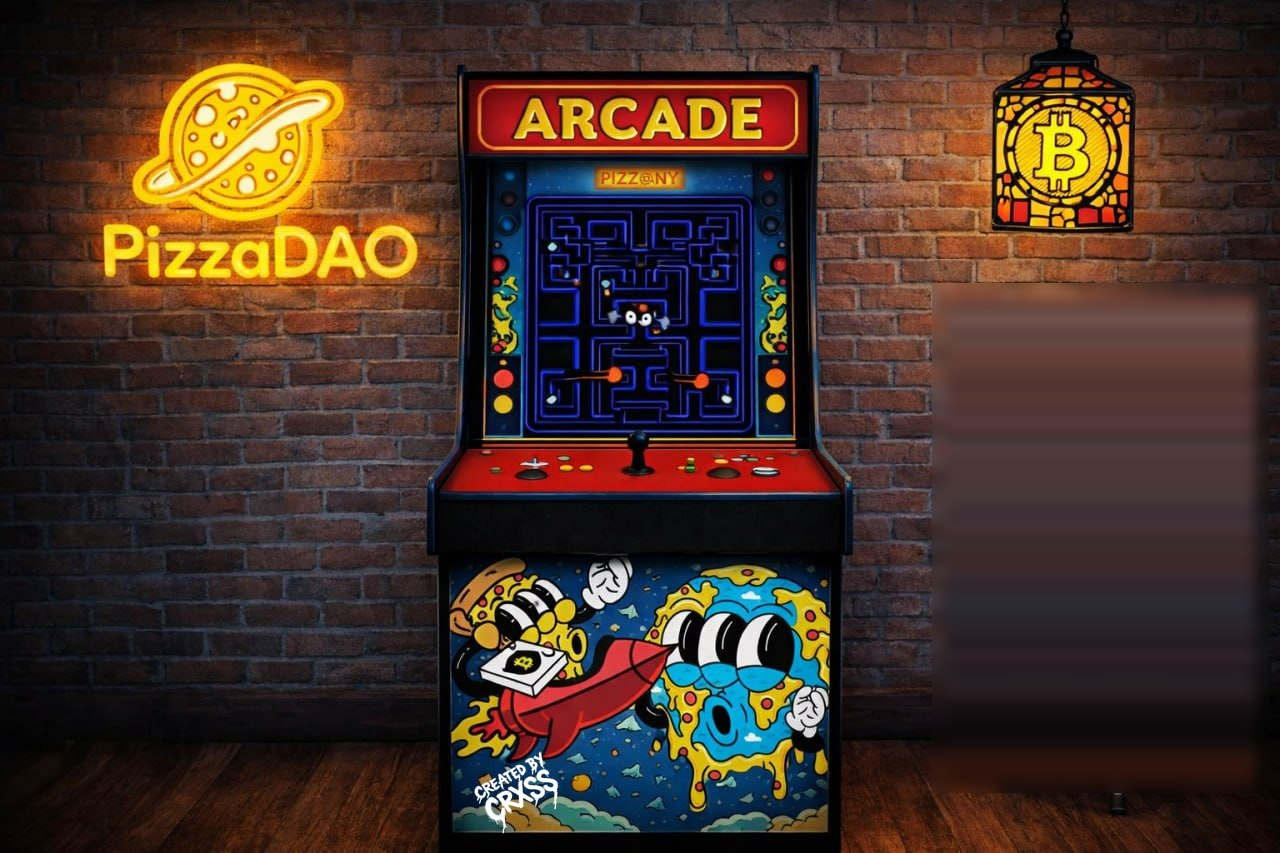
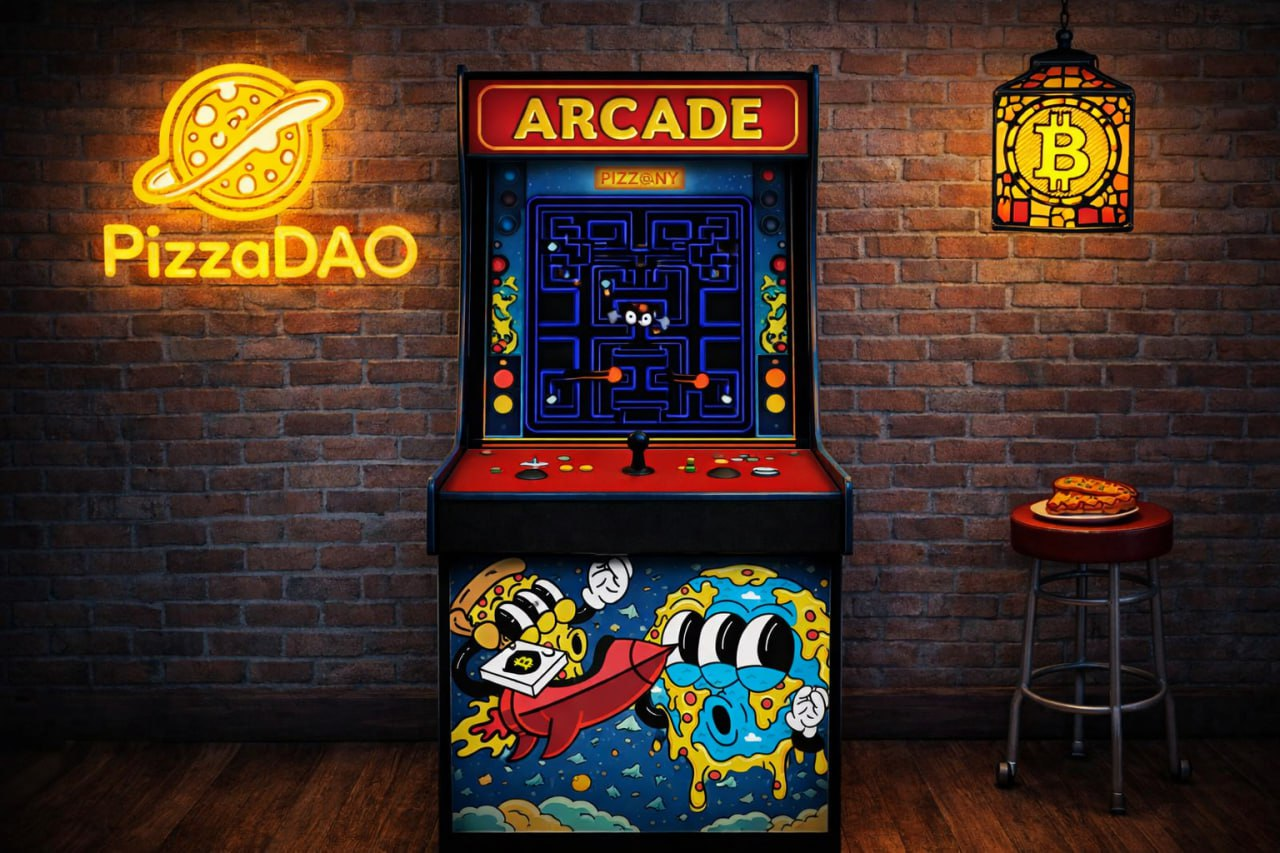
revert: use original background with stool, no pizza overlay, no CRXSS bake

diff --git a/app/pizzadao/arcade/page.tsx b/app/pizzadao/arcade/page.tsx
@@ -21,7 +21,6 @@ const L = {
   screen:   { left: 37.7667, top: 19.8999, width: 24.6333, height: 31.5969 },
   joystick: { left: 49.0,    top: 50.3967, width: 1.7,     height: 5.25 },
   button:   { left: 56.0417, top: 59.3428, width: 10.9344, height: 5.7158 },
-  pizza:    { left: 76.5688, top: 54.7129, width: 17.4251, height: 9.0285, rx: -47, ry: 1.5, rz: 2 },
   crxss:    { left: 37.4628, top: 89.6998, width: 6.4685,  height: 4.8435, rotate: -28.5 }
 };
 
@@ -73,10 +72,6 @@ export default function PizzaDaoArcadePage() {
         <div className={styles.joystickOverlay} style={{ left: `${L.joystick.left}%`, top: `${L.joystick.top}%`, width: `${L.joystick.width}%`, height: `${L.joystick.height}%` }} aria-hidden>
           <span className={styles.joystickStem} />
           <span className={styles.joystickKnob} />
-        </div>
-
-        <div className={styles.pizzaOverlay} style={{ left: `${L.pizza.left}%`, top: `${L.pizza.top}%`, width: `${L.pizza.width}%`, height: `${L.pizza.height}%`, transform: `perspective(900px) rotateX(${L.pizza.rx}deg) rotateY(${L.pizza.ry}deg) rotateZ(${L.pizza.rz}deg)`, transformOrigin: '50% 50%' }}>
-          <img src={withBase("/pizzadao/stool-pizza-v2.png")} alt="Pizza plate" className={styles.pizzaImage} />
         </div>
 
         <button className={styles.enterButton} style={{ left: `${L.button.left}%`, top: `${L.button.top}%`, width: `${L.button.width}%`, height: `${L.button.height}%` }} onClick={onEnter} aria-label="Start">
